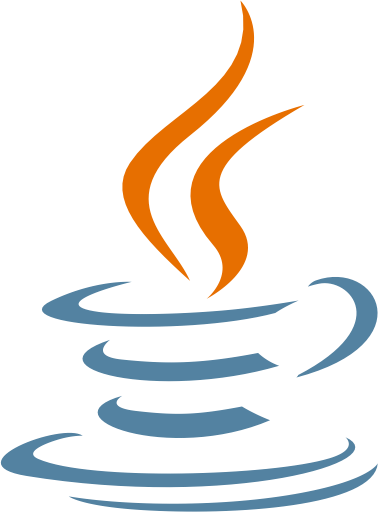
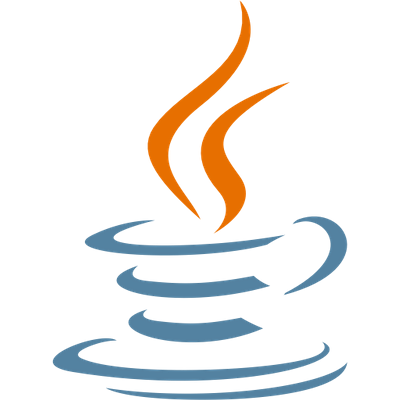
commit

diff --git a/frontend_react/src/container/Header/Header.jsx b/frontend_react/src/container/Header/Header.jsx
@@ -70,7 +70,7 @@ const Header = () => {
                 whileInView={scaleVariants.whileInView}
                 className="app__header-circles"
             >
-                {[images.cpp, images.vue, images.react, images.python, images.html, images.css, images.javascript].map((circle, index) => (
+                {[images.cpp, images.java, images.react, images.python, images.html, images.css, images.javascript].map((circle, index) => (
                     <div className="circle-cmp app__flex" key={`circle-${index}`}>
                         <img src={circle} alt="circle" />
                     </div>

diff --git a/frontend_react/src/container/Header/Header.scss b/frontend_react/src/container/Header/Header.scss
@@ -30,6 +30,7 @@
     @media screen and (max-width: 1200px)
     {
         flex-direction:  column;  
+        padding-bottom:  4rem;
     }
 
     @media screen and (min-width: 2000px)
@@ -120,6 +121,7 @@
 
     div:nth-child(1)
     {
+        //  margin-top: -1.75rem;
         width: 95px;
         height: 95px;
     }

diff --git a/frontend_react/src/components/SocialMedia.jsx b/frontend_react/src/components/SocialMedia.jsx
@@ -16,7 +16,7 @@ const SocialMedia = () => {
                 </a>
             </div>
             <div>
-                <a href="#">
+                <a href="https://drive.google.com/file/d/1HSe7h72mqqIzpa8Shbp5AEn39jwrAplj/view?usp=share_link">
                     <FaFile />
                 </a>
             </div>
